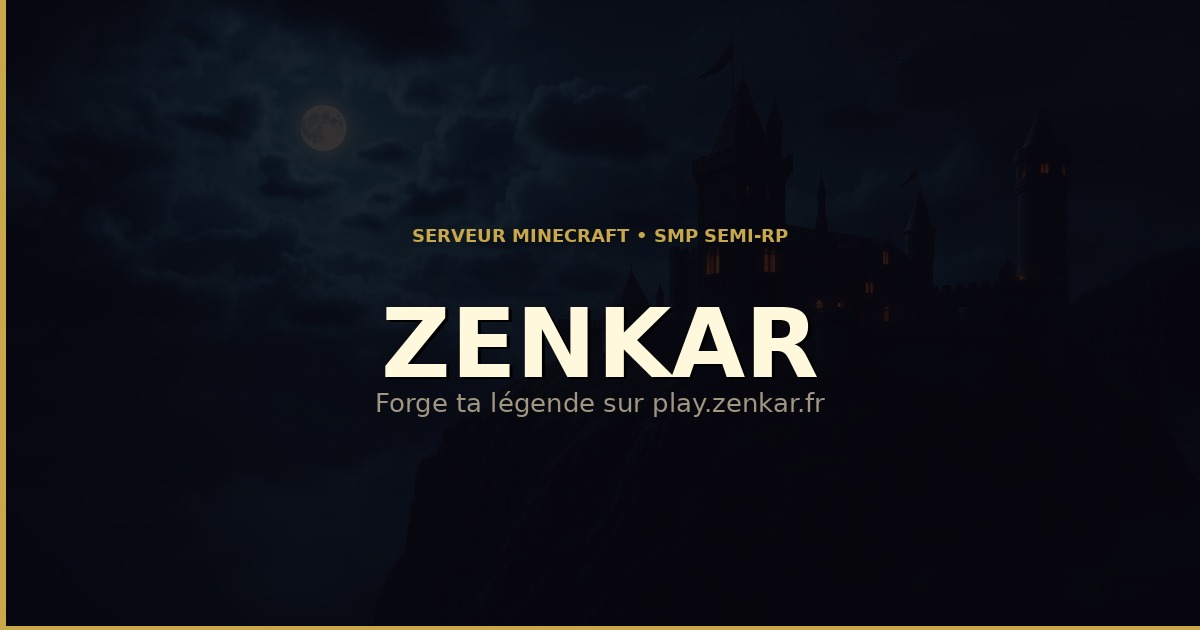
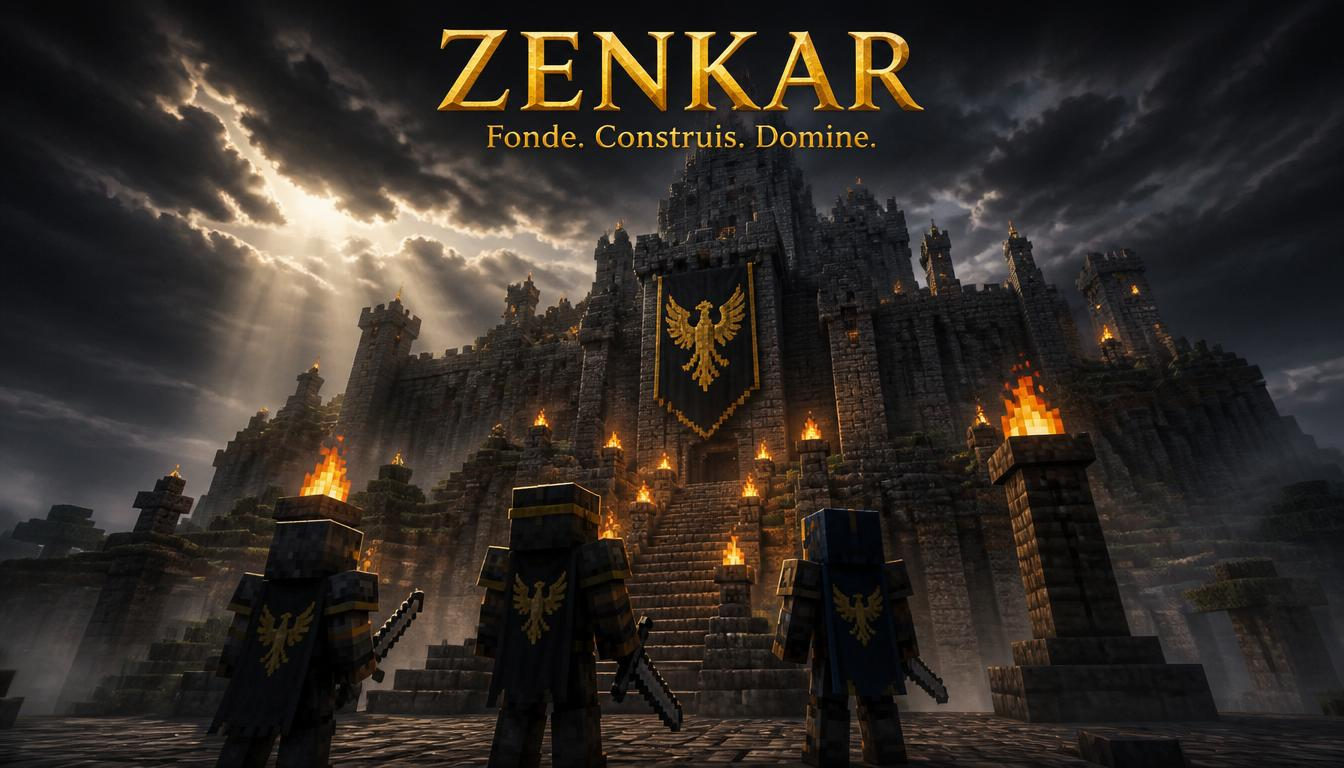
fix: update SEO metadata for improved clarity and engagement

diff --git a/index.html b/index.html
@@ -10,15 +10,15 @@
     <link rel="preconnect" href="https://fonts.gstatic.com" crossorigin />
 
     <!-- Default SEO — overridden per page via react-helmet-async -->
-    <title>Zenkar — Serveur Minecraft SMP Semi-RP</title>
-    <meta name="description" content="Zenkar est un serveur Minecraft SMP Semi-RP français. Rejoins une communauté passionnée, explore un monde vivant et forge ta légende." />
+    <title>Zenkar — Serveur Minecraft Survival SMP</title>
+    <meta name="description" content="Zenkar est un serveur Minecraft Survival SMP français. Fonde ta guilde, bâtis une civilisation, domine le royaume. Saison 1 — Les Fondateurs." />
     <meta name="theme-color" content="#c9a84c" />
 
     <!-- Open Graph -->
     <meta property="og:type" content="website" />
     <meta property="og:site_name" content="Zenkar" />
-    <meta property="og:title" content="Zenkar — Serveur Minecraft SMP Semi-RP" />
-    <meta property="og:description" content="Zenkar est un serveur Minecraft SMP Semi-RP français. Rejoins une communauté passionnée, explore un monde vivant et forge ta légende." />
+    <meta property="og:title" content="Zenkar — Serveur Minecraft Survival SMP" />
+    <meta property="og:description" content="Zenkar est un serveur Minecraft Survival SMP français. Fonde ta guilde, bâtis une civilisation, domine le royaume. Saison 1 — Les Fondateurs." />
     <meta property="og:url" content="https://zenkar.fr" />
     <meta property="og:image" content="https://zenkar.fr/og-default.jpg" />
     <meta property="og:image:width" content="1200" />
@@ -28,8 +28,8 @@
     <!-- Twitter Card -->
     <meta name="twitter:card" content="summary_large_image" />
     <meta name="twitter:site" content="@zenkar_fr" />
-    <meta name="twitter:title" content="Zenkar — Serveur Minecraft SMP Semi-RP" />
-    <meta name="twitter:description" content="Zenkar est un serveur Minecraft SMP Semi-RP français. Rejoins une communauté passionnée, explore un monde vivant et forge ta légende." />
+    <meta name="twitter:title" content="Zenkar — Serveur Minecraft Survival SMP" />
+    <meta name="twitter:description" content="Zenkar est un serveur Minecraft Survival SMP français. Fonde ta guilde, bâtis une civilisation, domine le royaume. Saison 1 — Les Fondateurs." />
     <meta name="twitter:image" content="https://zenkar.fr/og-default.jpg" />
 
     <!-- Canonical -->